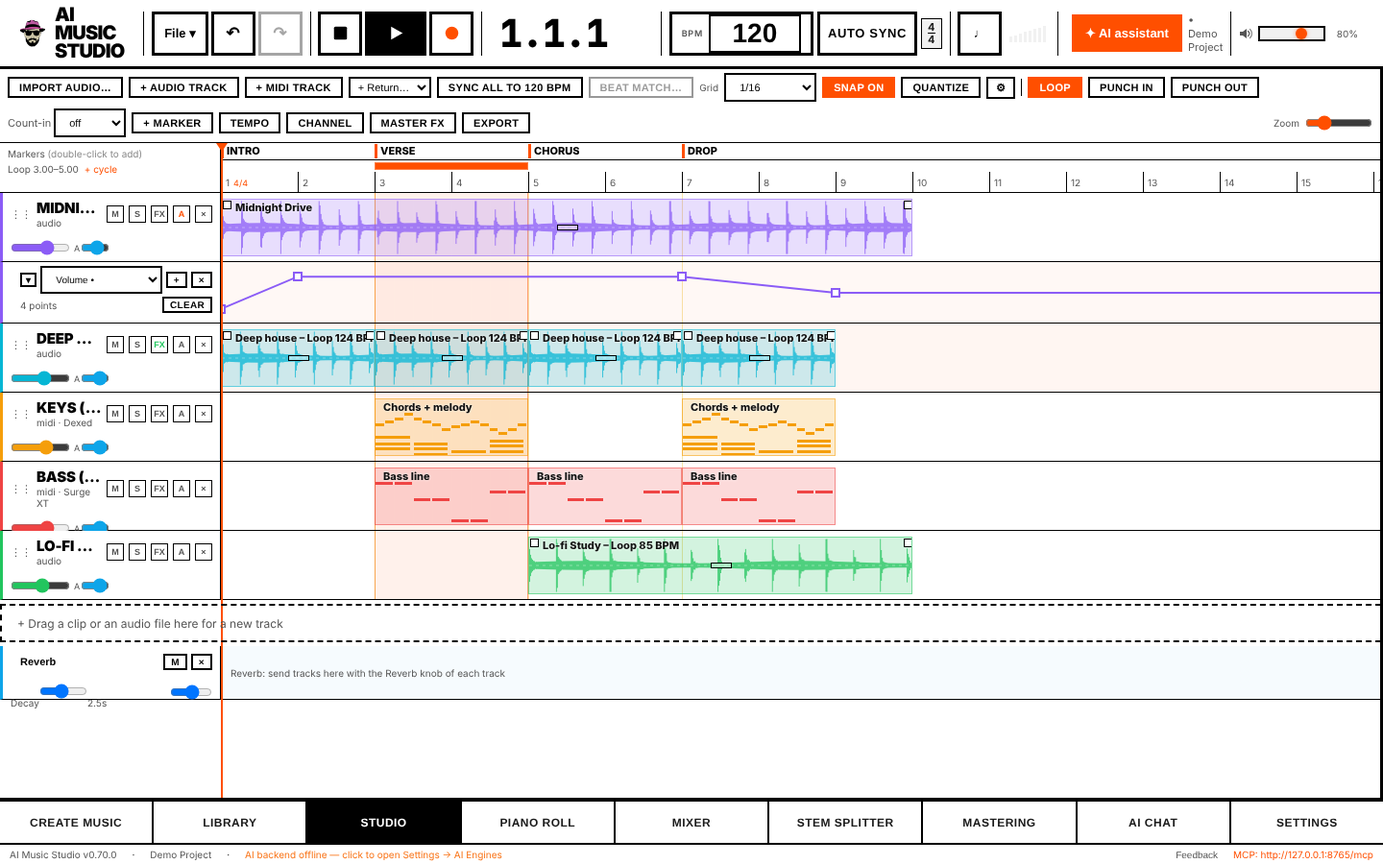
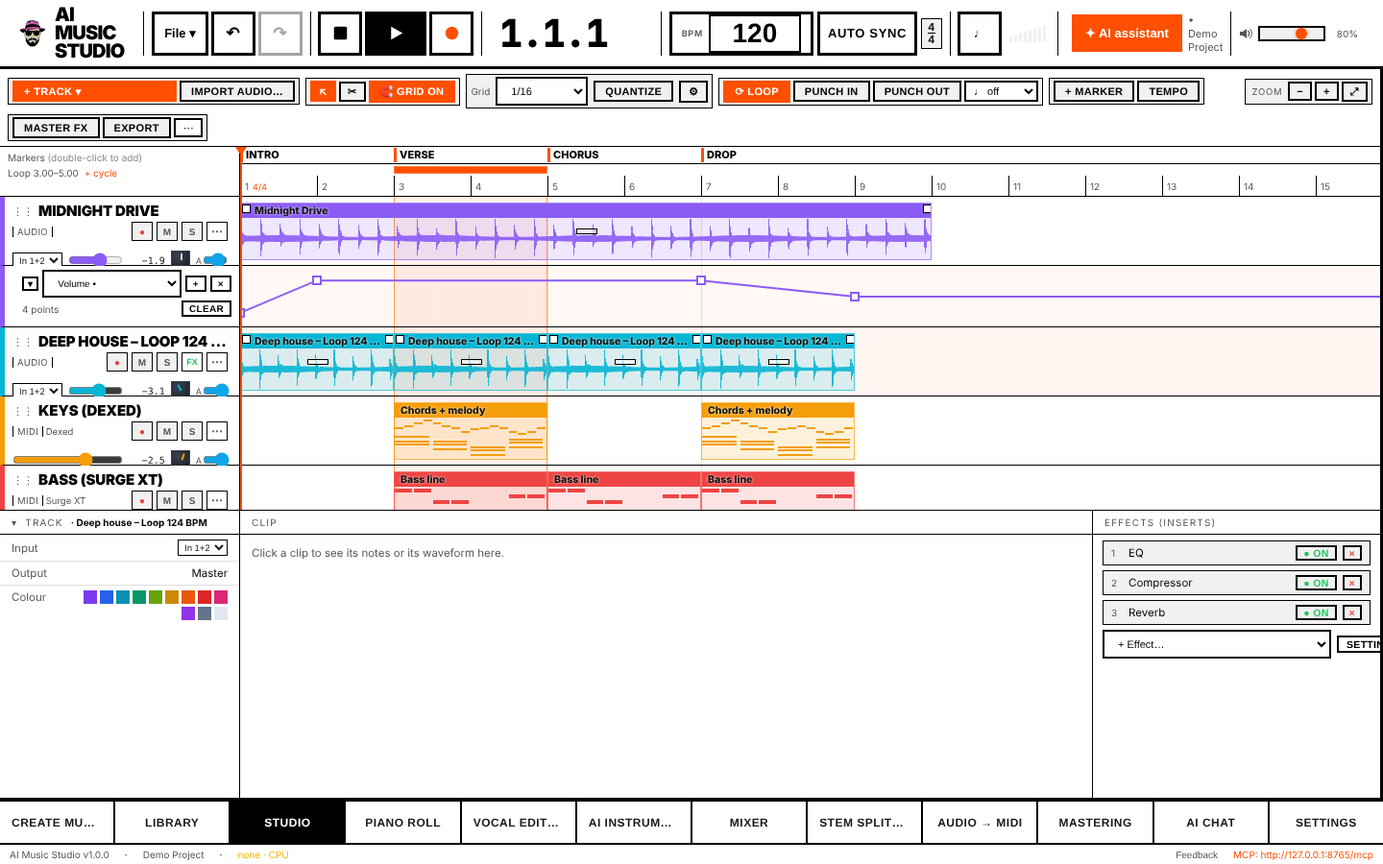
docs: new screenshots, README and wiki for everything in the app; mixer: '1 suggestion'
Claude-Session: https://claude.ai/code/session_013zCgTr6dt9d3xsck6W1V2X

diff --git a/apps/desktop/src/renderer/src/components/mixer/Mixer.tsx b/apps/desktop/src/renderer/src/components/mixer/Mixer.tsx
@@ -404,7 +404,7 @@ export function Mixer(): React.ReactElement {
         <span style={{ fontSize: 18, fontWeight: 800, color: C.text }}>{tr('Mixer')}</span>
         <span style={{ fontSize: 11, color: C.label, border: '1px solid #2a3340', borderRadius: 999, padding: '2px 9px' }}>{trf('{n} tracks · {r} returns', { n: shown.length, r: returns.length })}</span>
         <span style={{ flex: 1 }} />
-        {issues.length > 0 && <span style={{ fontSize: 11, color: '#fde68a', border: '1px solid #a16207', borderRadius: 999, padding: '2px 9px' }}>⚠ {trf('{n} suggestions', { n: issues.length })}</span>}
+        {issues.length > 0 && <span style={{ fontSize: 11, color: '#fde68a', border: '1px solid #a16207', borderRadius: 999, padding: '2px 9px' }}>⚠ {issues.length === 1 ? tr('1 suggestion') : trf('{n} suggestions', { n: issues.length })}</span>}
         <button disabled={!!busy} onClick={issues.length > 1 ? takeAll : () => void analyse()} style={{ border: 'none', borderRadius: 999, padding: '6px 14px', fontSize: 12, fontWeight: 700, cursor: 'pointer', background: 'linear-gradient(90deg, #7c3aed, #db2777)', color: '#fff', opacity: busy ? 0.6 : 1 }}>
           ✦ {issues.length > 1 ? tr('Balance the whole mix') : tr('Measure my mix')}
         </button>

diff --git a/README.md b/README.md
@@ -6,7 +6,7 @@
 
 **🎬 [Watch the 0.60 tour on YouTube (2 minutes)](https://youtu.be/FTNmsRxWuy4)**
 
-**Free, open-source AI music studio for Windows:** make songs, seamless loops and stems with AI on your own PC, and arrange them in a full studio (DAW) with mixer, piano roll and automation. No account, no subscription. The AI assistant works with Claude, ChatGPT, Grok or completely free and local with Ollama.
+**Free, open-source AI music studio for Windows:** make songs, seamless loops and stems with AI on your own PC, split songs into stems, turn audio into MIDI, sing your melodies with AI voices, play AI instruments, mix and master, and arrange it all in a full studio (DAW) with piano roll, mixer, automation and VST plugins. No account, no subscription. The AI assistant works with Claude, ChatGPT, Gemini, Grok or completely free and local with Ollama.
 
 ## Easy Windows installation
 
@@ -45,79 +45,97 @@ AI Music Studio is free and stays free, made in my spare time. If it saves you t
 - 0.97: album mastering with a professional album player; 0.96: 39 built-in singing voices with styles and rap.
 - Full history: [CHANGELOG.md](CHANGELOG.md).
 
-## Features
+## What is in the app
 
-### Studio (DAW): available now
+Everything below works today, on your own PC, without an account. The menu on the left of the app, from top to bottom:
 
-A full arrangement studio in the app, with the shortcuts of **Ableton Live 12** or **Cubase** (Settings → Shortcuts).
+| Menu | What you can do |
+|---|---|
+| **✨ Create Music** | Songs from a style description and lyrics (with vocals, instrumental or a cappella), seamless loops of 1–16 bars that start on beat 1, in *Simple*, *Studio* or *Loops* mode. Lyrics editor with section buttons, auto structure and AI lyrics; the built-in singers of the Vocal Editor can sing your song; three 10-second voice previews; LoRA styles (import, search on Hugging Face, train your own); a source or reference song by drag and drop; several takes with waveforms, seeds and a queue. Every take goes to the Studio, Mastering, the Stem Splitter or Audio → MIDI with one click. |
+| **🎵 Library** | Every song, loop, stem and sample with tempo, tags and its prompt; search by name, tag or BPM (`120-130`); favourites; your Ableton library and other sample folders; export as WAV 16/24/32 bit, AIFF, FLAC or MP3; *Start on beat 1*; to the Studio, Mastering, Stem Splitter or MIDI. |
+| **⊞ Studio** | The arrangement (DAW): audio and MIDI tracks, drag and drop from the Library or Explorer, loop range, markers, tempo and time-signature track, snap grid with a magnet, scissors tool, warp markers, AUTO SYNC of everything to the project tempo, multi-select, copy / paste / duplicate, clip fades and gain, volume / pan / plugin automation lanes, return tracks with sends, group tracks, track colours, undo / redo, save and open projects. Recording: arm tracks, count-in, punch in / out, loop recording with comping, audio input choice, MIDI keyboard recording. The **Piano Roll sits right under the tracks**; the effects of the selected track are rack modules with knobs at the right. VST3 / VST2 effects (64-bit and 32-bit) and instruments on tracks and the master, ASIO output. Shortcuts of Ableton Live 12 or Cubase. |
+| **🎹 Piano Roll** | Draw, select, move, quantize (strength, swing) and erase notes, velocity lane, note length, **keys on the left or a keyboard below with the notes coming down**, record from the screen keys or a MIDI keyboard, import and export MIDI files. |
+| **🎤 Vocal Editor** | Your MIDI melody sung with your lyrics: **39 built-in voices of 20 singers with names**, in the styles Pop, Rock, Ballad, Soul and Rap; hear every voice and every style first; the syllables sit right on the notes; DiffSinger voices for exact notes; the finished vocal lands on a new track with the style's effects. |
+| **🎻 AI Instruments** | A stage with six musicians: **Composer** (writes a MIDI song), **Drummer**, **Bass player** and **Guitarist** (a virtual band that follows your chords), **Orchestra** (13 AI-played instruments) and **AI soloist**. Preview before it goes into the song, *3 ideas*, *Add the whole band*, and *AI render* for a real-sounding recording. Sound packs with recorded instruments (Band, GeneralUser GS, MuseScore General, Salamander piano, VSCO-2 orchestra). |
+| **🎚 Mixer** | A card per track (name in the track colour, M / S, fader with LED meter, pan, sends, effects, output), the master and its loudness against a target (streaming −14, podcast −16, loud −9, broadcast −23 LUFS), returns, and the **mix assistant**: it measures every track and the whole mix and suggests levels, panning and low-end fixes, each with its reason and a *Do it* button, or *Balance the whole mix* in one click (Ctrl+Z takes it back). |
+| **✂ Stem Splitter** | Splits a song into vocals, drums, bass, piano, guitar and the rest (Demucs; fast vocals-plus-instrumental and 4-stem modes on AMD, Intel and NVIDIA graphics cards). The song as a waveform on top, **every stem in its own lane** with M, S, volume, *hear only this stem* and → MIDI / Studio / Mastering; remix export (karaoke without vocals, a version without drums); save to the Library or export every stem for any DAW. |
+| **♪ Audio → MIDI** | A whole song, or just its melody, bassline or drums, becomes editable MIDI: each part with the method that suits it (one-voice lines for vocals and bass, chords for piano and guitar, kick / snare / hi-hat for drums), on the bars and beats of the song, with its tempo, key and chords. A table shows every part with note preview, instrument and how sure the detection is; into the Studio with an optional chord track and chord markers. |
+| **◎ Mastering** | A full mastering workspace: an AI assistant that measures the song against the genre and suggests settings with reasons; EQ, dynamic EQ, compressor, multiband, saturation / exciter, stereo, true-peak limiter to a loudness target, master gain; cut, fade, normalise; LUFS / true peak / spectrum / goniometer before and after with same-loudness A/B; reference match; **album mastering** (several songs on one timeline, even loudness, transitions); export in 8 formats with metadata. |
+| **💬 AI Chat** | A music assistant for chords, lyrics and ideas that can also use the app (make a track, add notes, change the tempo). Claude, ChatGPT, Gemini, Grok, Ollama or a local server (LM Studio, KoboldCpp, llama.cpp). |
+| **⚙ Settings** | Language (English, German, French, Spanish, Italian, Portuguese, Russian, Chinese), VST plugins, AI keys, **AI Engines** (install the local models with one click), hardware rating of your PC, models folder and disk space, shortcuts, audio (devices, ASIO, sample rate, buffer, test tone, CPU load, sound packs), MIDI devices with ready mappings and MIDI learn, four looks, updates. |
 
-- **Arrangement:** audio and MIDI tracks, drag and drop from the Library or Explorer, multi-select, copy / cut / paste, duplicate (Ctrl+D lines up loops without a gap), split, consolidate, crossfades
-- **Timing:** loop range in the ruler, markers and cycle markers, tempo and time-signature track, snap to grid, warp markers, AUTO SYNC of imported audio to the project tempo
-- **Recording:** count-in, punch in / out, loop recording into take lanes with comping
-- **VST plugins:** your VST3 and VST2 effects (64-bit and 32-bit) on every track, with their own windows; Settings → Plugins finds them
-- **Mixing:** mixer with faders, pan, mute, solo and live level meters, volume and pan automation lanes, reverb and delay return tracks with sends, group tracks, a channel tab per track
-- **Piano Roll:** draw, move and quantize MIDI notes
-- **Right in the Studio:** split a clip into stems from the right-click menu, quick export of the song
-- **Projects:** save and open, undo / redo
+**Also:** the top bar with File menu, transport, BPM, AUTO SYNC, metronome and time signature; a **setup assistant** that installs the AI engines for you on the first start; automatic updates; and an **MCP server** so AI agents can use the whole app (`http://127.0.0.1:38765/mcp`). It runs on the CPU and is faster on NVIDIA (CUDA) and AMD / Intel graphics cards (DirectML), also on 8 GB VRAM / 12 GB RAM PCs. [Every menu and function in detail: the wiki.](https://github.com/pierrecinema/ai-music-studio/wiki)
 
-### AI: available now
+### Technology
 
-| Feature | What it does | Technology |
-|---|---|---|
-| **Create music** | Songs from a style description and lyrics; vocals with ACE-Step, instrumentals with MusicGen; a cappella mode; every track starts on beat 1 | ACE-Step 1.5 / v1, MusicGen, DiffRhythm |
-| **Create loop** | Exactly 1–16 bars, starts on beat 1, repeats seamlessly, named with tempo and bars | own loop cutter on the beat grid |
-| **Stem Splitter** | Vocals, drums, bass, piano, guitar and more; a stem mixer (solo, mute, volume) with remix export, e.g. karaoke without vocals; saved to the Library and exported for any DAW | Meta Demucs (htdemucs_ft) |
-| **Audio → MIDI** | The melody of a stem as notes on a MIDI track, opened in the Piano Roll | Spotify basic-pitch |
-| **Mastering** | Full mastering workspace: an AI assistant that measures the song and suggests settings per genre; EQ, dynamic EQ, compressor, multiband, saturation / exciter, stereo, true-peak limiter to a loudness target, master gain fader; cut, fade and normalise; LUFS / true peak / spectrum / goniometer before and after; export in 8 formats with metadata; reference match | own DSP (Web Audio worklets), Matchering, ffmpeg |
-| **Library** | Songs, loops, stems and samples with tempo and tags; search by name, tag or BPM; export as WAV, AIFF, FLAC or MP3 | |
-| **AI Chat** | Music assistant for chords, lyrics and ideas | Claude, ChatGPT, Grok, or free and local with Ollama |
-| **Hardware** | Runs on the CPU; faster on NVIDIA (CUDA) and AMD / Intel graphics cards (DirectML) | PyTorch |
-| **Languages** | The whole app in English, German, French, Spanish, Italian, Portuguese, Russian and Chinese | |
+| Part | Technology |
+|---|---|
+| Songs, loops | ACE-Step 1.5 / v1, MusicGen, DiffRhythm; own loop cutter on the beat grid |
+| Stems | Meta Demucs (htdemucs_ft), fast vocal separation on the graphics card |
+| Audio → MIDI | Spotify basic-pitch, NMF drum transcription, own tempo, key and chord detection |
+| Singing | SoulX-Singer and VocalSet voices, DiffSinger, ACE-Step 1.5 for rap |
+| AI instruments | MIDI-DDSP, ACE-Step cover, recorded sound packs |
+| Mastering | own DSP (Web Audio worklets), Matchering, ffmpeg |
+| Plugins | JUCE plugin host for VST3 / VST2 |
 
 ### Coming soon
 
+These menu items are dimmed in the app and open a *Coming soon* page.
+
 | Feature | What it will do |
 |---|---|
-| **Instrument plugins, plugins on the master and in Mastering** | VST effects work in the Studio tracks since 0.50; instruments and the master follow |
-| **Vocal Editor** | AI singing from notes and lyrics, voice cloning |
-| **AI Instruments** | AI-played instruments for your MIDI tracks |
 | **Karaoke Export** | Word timing, .lrc files and lyric videos |
 | **Video Composer** | Music that follows the cuts of your video |
 | **Cloud Rendering (Pro)** | Optional: render on fast NVIDIA cards in the cloud. Everything above stays free and local. |
 
 ## Screenshots
 
-*Shown with demo content: example songs, a demo project and a PC without AI engines installed yet. All pages below the first picture are shown in the Hardware rack look.*
+*Shown with demo content: example songs and a demo project, in the Hardware rack look (the first picture in the standard Dark look).*
 
-<img src="docs/screenshots/layout-dark.png" alt="Studio" width="100%">
-**Studio** – arrangement with loop and markers, volume automation, tempo-synced loops pasted one after the other, MIDI tracks with the free instruments Dexed and Surge XT and a reverb return track.
+<img src="docs/screenshots/studio-pianoroll.png" alt="Studio with the Piano Roll under the tracks" width="100%">
+**Studio** – tracks with waveforms and MIDI clips, loop and markers, volume automation, the Piano Roll right under the tracks, the track's instrument and effects at the right.
 
 <img src="docs/screenshots/studio.png" alt="Studio in the Hardware rack look" width="100%">
-**The same Studio in the Hardware rack look** – the selected track's effects (EQ, compressor, reverb) as rack modules with knobs at the right.
-
-<img src="docs/screenshots/studio-tools.png" alt="Studio tools" width="100%">
-**Studio tools** – pointer, scissors (click to cut, drag to cut out a range over several tracks) and the grid magnet; zoom up to 16× with a magnetic grid for lining up beats.
-
-<img src="docs/screenshots/vocal-editor.png" alt="Vocal Editor" width="100%">
-**Vocal Editor** – 39 built-in voices with names sing your MIDI melody and lyrics; click a voice to hear it, hear it in every style (Pop, Rock, Ballad, Soul) and pick the style, whose way of singing and effects go onto the new vocal track. Rap by the AI singer.
-
-<img src="docs/screenshots/album-mastering.png" alt="Album mastering" width="100%">
-**Album mastering** – the songs of an album on one timeline with their waveforms: measure, even out loudness and tone, hear the transitions and export everything at once.
-
-<img src="docs/screenshots/setup-assistant.png" alt="Setup assistant" width="100%">
-**Setup assistant** – on the first start: checks the computer, offers *Recommended*, *Everything* or *Studio only*, and installs with one click (it sets up its own Python if needed).
+**Studio, effects** – the selected track's effects (EQ, compressor, reverb) as rack modules with knobs.
 
 <img src="docs/screenshots/create-studio.png" alt="Create music" width="100%">
-**Create music** – describe the style, write lyrics, pick a model and make a song or a seamless loop (1–16 bars). Simple and Studio mode.
+**Create music** – describe the style, write lyrics, pick a model and make a song or a seamless loop (1–16 bars). Simple, Studio and Loops mode.
 
 <img src="docs/screenshots/library.png" alt="Library" width="100%">
-**Library** – every created song and loop is kept with its tempo; loops are named like "Deep house – Loop 124 BPM 4 bars".
+**Library** – every created song and loop is kept with its tempo, tags and prompt; stems and sample folders have their own tabs.
+
+<img src="docs/screenshots/piano-roll.png" alt="Piano Roll" width="100%">
+**Piano Roll** – draw, move and quantize notes; the keys on the left or a keyboard below with the notes coming down.
+
+<img src="docs/screenshots/vocal-editor.png" alt="Vocal Editor" width="100%">
+**Vocal Editor** – 39 built-in voices with names sing your MIDI melody and lyrics; hear a voice and every style (Pop, Rock, Ballad, Soul, Rap) before you sing.
+
+<img src="docs/screenshots/instruments.png" alt="AI Instruments" width="100%">
+**AI Instruments** – a stage with a composer, drummer, bass player, guitarist, orchestra and AI soloist; click a musician, hear it, get three ideas, add it to the song or render it as a real recording.
+
+<img src="docs/screenshots/mixer.png" alt="Mixer" width="100%">
+**Mixer** – a card per track, the master with its loudness against a target, returns and the mix assistant with one-click suggestions.
+
+<img src="docs/screenshots/stem-splitter.png" alt="Stem Splitter" width="100%">
+**Stem Splitter** – the song on top, every stem in its own lane with M, S, volume, hear-only and → MIDI / Studio / Mastering.
+
+<img src="docs/screenshots/audio-to-midi.png" alt="Audio to MIDI" width="100%">
+**Audio → MIDI** – say what should become MIDI (whole song, melody, bassline, drums); every part with note preview, instrument and how sure the detection is.
 
 <img src="docs/screenshots/mastering.png" alt="Mastering" width="100%">
 **Mastering** – waveform before and after with a marked region to cut, fade or change the volume; meters before and after (loudness, true peak, spectrum, goniometer), same-loudness A/B and export in every format.
 
 <img src="docs/screenshots/mastering-assistant.png" alt="Mastering assistant" width="100%">
 **Mastering assistant** – measures tone balance per octave, dynamics, stereo and loudness against the genre and suggests settings, each with its reason; apply all with one click and compare.
+
+<img src="docs/screenshots/album-mastering.png" alt="Album mastering" width="100%">
+**Album mastering** – the songs of an album on one timeline: measure, even out loudness and tone, hear the transitions and export everything at once.
+
+<img src="docs/screenshots/setup-assistant.png" alt="Setup assistant" width="100%">
+**Setup assistant** – on the first start: checks the computer, offers *Recommended*, *Everything* or *Studio only*, and installs with one click (it sets up its own Python if needed).
+
+<img src="docs/screenshots/ai-chat.png" alt="AI Chat" width="100%">
+**AI Chat** – Claude, ChatGPT, Gemini, Grok or a local model as a music assistant that can also make songs and tracks.
 
 ### Looks
 
@@ -137,17 +155,15 @@ A full arrangement studio in the app, with the shortcuts of **Ableton Live 12** 
 <img src="docs/screenshots/layout-rack.png" alt="Look: Hardware rack" width="100%">
 **Hardware rack** – grey device fronts with screws, a wide green LCD for position and tempo, the menu at the side as rack keys, the selected track's effects as rack modules with knobs at the right.
 
+### Settings
+
 | | |
 |---|---|
-| <img src="docs/screenshots/piano-roll.png" alt="Piano Roll" width="100%"><br>**Piano Roll** – draw, move and quantize MIDI notes | <img src="docs/screenshots/mixer.png" alt="Mixer" width="100%"><br>**Mixer** – faders, pan, mute/solo, level meters, master |
-| <img src="docs/screenshots/instruments.png" alt="AI Instruments" width="100%"><br>**AI Instruments** – song generator, band and orchestral AI instruments for MIDI tracks (click one to hear it) | <img src="docs/screenshots/mixer.png" alt="Mixer" width="100%"><br>**Mixer** – SSL-style channel strips |
-| <img src="docs/screenshots/stem-splitter.png" alt="Stem Splitter" width="100%"><br>**Stem Splitter** – vocals, drums, bass and more with Demucs | <img src="docs/screenshots/mastering-chain.png" alt="Mastering chain" width="100%"><br>**Mastering chain** – EQ, compressor, multiband, stereo, limiter with loudness target, master gain fader |
-| <img src="docs/screenshots/karaoke.png" alt="Karaoke Export" width="100%"><br>**Karaoke Export** – word timing, .lrc and lyric videos (coming soon) | <img src="docs/screenshots/video-composer.png" alt="Video Composer" width="100%"><br>**Video Composer** – music that follows the cuts of a video (coming soon) |
-| <img src="docs/screenshots/ai-chat.png" alt="AI Chat" width="100%"><br>**AI Chat** – Claude, ChatGPT, Gemini, Grok or a local model as a music assistant that can also make songs | <img src="docs/screenshots/settings-ai-engines.png" alt="Settings → AI Engines" width="100%"><br>**Settings → AI Engines** – install the local AI models with one click |
-| <img src="docs/screenshots/settings-hardware.png" alt="Settings → Hardware" width="100%"><br>**Settings → Hardware** – what this PC can run, and how fast | <img src="docs/screenshots/settings-models.png" alt="Settings → Models" width="100%"><br>**Settings → Models** – downloaded models, sizes and the models folder |
-| <img src="docs/screenshots/settings-shortcuts.png" alt="Settings → Shortcuts" width="100%"><br>**Settings → Shortcuts** – Ableton Live 12 or Cubase key layout | <img src="docs/screenshots/settings-ai.png" alt="Settings → AI" width="100%"><br>**Settings → AI** – Claude, ChatGPT, Gemini, Grok, Ollama or a local server for the AI chat |
-| <img src="docs/screenshots/settings-general.png" alt="Settings → General" width="100%"><br>**Settings → General** – language (VST plugins: Settings → Plugins) | <img src="docs/screenshots/settings-audio.png" alt="Settings → Audio" width="100%"><br>**Settings → Audio** – export sample rate (44.1 kHz for platforms) and buffer size |
-| <img src="docs/screenshots/settings-appearance.png" alt="Settings → Appearance" width="100%"><br>**Settings → Appearance** – Dark, Light, Swiss or Hardware rack | <img src="docs/screenshots/settings-updates.png" alt="Settings → Updates" width="100%"><br>**Settings → Updates** – automatic updates from GitHub releases |
+| <img src="docs/screenshots/settings-ai-engines.png" alt="Settings → AI Engines" width="100%"><br>**AI Engines** – install the local AI models with one click | <img src="docs/screenshots/settings-hardware.png" alt="Settings → Hardware" width="100%"><br>**Hardware** – what this PC can run, and how fast |
+| <img src="docs/screenshots/settings-audio.png" alt="Settings → Audio" width="100%"><br>**Audio** – devices, export sample rate, buffer size and sound packs | <img src="docs/screenshots/settings-plugins.png" alt="Settings → Plugins" width="100%"><br>**Plugins** – your VST3 and VST2 plugins, found automatically |
+| <img src="docs/screenshots/settings-models.png" alt="Settings → Models" width="100%"><br>**Models** – downloaded models, sizes and the models folder | <img src="docs/screenshots/settings-ai.png" alt="Settings → AI" width="100%"><br>**AI** – Claude, ChatGPT, Gemini, Grok, Ollama or a local server for the AI chat |
+| <img src="docs/screenshots/settings-shortcuts.png" alt="Settings → Shortcuts" width="100%"><br>**Shortcuts** – Ableton Live 12 or Cubase key layout | <img src="docs/screenshots/settings-general.png" alt="Settings → General" width="100%"><br>**General** – language |
+| <img src="docs/screenshots/settings-appearance.png" alt="Settings → Appearance" width="100%"><br>**Appearance** – Dark, Light, Swiss or Hardware rack | <img src="docs/screenshots/settings-updates.png" alt="Settings → Updates" width="100%"><br>**Updates** – automatic updates from GitHub releases |
 
 **Found a problem?** ([guide, German](docs/TESTING.md)) Reports are very welcome, especially from PCs with **NVIDIA cards**: open *Feedback → Record a detailed log*, reproduce the problem, then attach the saved log to a GitHub issue. Nothing is sent automatically.
 

diff --git a/docs/wiki/Home.md b/docs/wiki/Home.md
@@ -1,18 +1,21 @@
 # AI Music Studio Wiki
 
-**Free, open-source AI music studio and DAW for Windows.** Make songs, seamless loops and stems with AI on your own PC, and arrange them in a full studio with mixer, piano roll and automation. No account, no subscription.
+**Free, open-source AI music studio and DAW for Windows.** Make songs, seamless loops and stems with AI on your own PC, split songs into stems, turn audio into MIDI, sing your melodies with AI voices, play AI instruments, mix and master, and arrange it all in a full studio with piano roll, mixer, automation and VST plugins. No account, no subscription.
 
-🎬 [2-minute tour on YouTube](https://youtu.be/FTNmsRxWuy4) · ⬇ [Download the latest version](https://github.com/pierrecinema/ai-music-studio/releases/latest) · 🐞 [Report a problem](https://github.com/pierrecinema/ai-music-studio/issues)
+🎬 [Tour on YouTube](https://youtu.be/FTNmsRxWuy4) · ⬇ [Download the latest version](https://github.com/pierrecinema/ai-music-studio/releases/latest) · 🐞 [Report a problem](https://github.com/pierrecinema/ai-music-studio/issues)
 
-## What's new (0.50)
+![The Studio in the Hardware rack look](https://raw.githubusercontent.com/pierrecinema/ai-music-studio/main/docs/screenshots/studio-pianoroll.png)
 
-**VST plugins:** your own VST3 and VST2 effects in the [[Studio]] ([[Settings]] → Plugins finds them).
+## What is in version 1.0
 
-## Earlier (0.40)
+- **Make music:** songs with vocals, instrumentals, a cappella and seamless 1–16 bar loops from a style and lyrics ([[Create Music]]); LoRA styles; your own library ([[Library]]).
+- **Arrange:** a full DAW with audio and MIDI tracks, loop, markers, tempo track, warp, recording with comping, automation, returns and groups, VST3 / VST2 plugins and ASIO ([[Studio]], [[Piano Roll]], [[Mixer]]).
+- **Sing and play:** 39 built-in AI voices that sing your melody and lyrics ([[Vocal Editor]]); a virtual band, an AI orchestra and an AI soloist ([[AI Instruments]]).
+- **Take songs apart:** every stem in its own lane ([[Stem Splitter]]); a whole song, melody, bass or drums into MIDI with tempo, key and chords ([[Audio to MIDI]]).
+- **Mix and master:** a mixer with a mix assistant, a full mastering workspace with an assistant, and album mastering ([[Mixer]], [[Mastering]]).
+- **Ask and automate:** an AI chat that can use the app ([[AI Chat]]) and an MCP server for AI agents ([[MCP]]).
+- **Easy to run:** a setup assistant installs the AI engines, automatic updates, eight languages, four looks, Ableton Live 12 or Cubase shortcuts ([[Installation and Setup]], [[Settings]]).
 
-The whole app is now available in **German, French, Spanish, Italian, Portuguese and Chinese** ([[Settings]] →
-General → Language), closing the app asks whether to save unsaved changes, and the [[Library]] uses the full width.
-Earlier: a full [[Mastering]] workspace with an assistant, editing and a master gain fader.
 All changes: [release notes](https://github.com/pierrecinema/ai-music-studio/releases).
 
 ## Start here
@@ -27,22 +30,21 @@ The menu on the left of the app, from top to bottom:
 
 | Menu | What it is for |
 |---|---|
-| ✨ [[Create Music]] | Songs from a style and lyrics, instrumentals, seamless loops (1–16 bars), LoRA styles |
+| ✨ [[Create Music]] | Songs from a style and lyrics, instrumentals, a cappella, seamless loops (1–16 bars), LoRA styles |
 | 🎵 [[Library]] | Your songs, loops, stems and sample folders: play, search, tag, export, add to the Studio |
-| ⊞ [[Studio]] | The arrangement (DAW): audio and MIDI tracks, clips, loop, markers, tempo, recording, automation |
-| 🎹 [[Piano Roll]] | Draw, select, move and quantize MIDI notes |
-| 🎤 [[Vocal Editor]] | Your melody sung with your lyrics: DiffSinger voices (every note exact) or the AI singer |
-| 🎤 Vocal Editor | [[Coming Soon]] |
-| 🎻 AI Instruments | [[AI Instruments]] |
-| 🎚 [[Mixer]] | Faders, pan, mute, solo, level meters, returns and groups |
-| ✂ [[Stem Splitter]] | Vocals, drums, bass and more; stem mixer, karaoke remix |
-| ♪ [[Audio to MIDI]] | A whole song into MIDI tracks: every instrument, drums too, on the bars, with tempo, key and chords |
-| ◎ [[Mastering]] | Master a song: assistant with suggestions per genre, EQ, dynamic EQ, compressor, multiband, saturation, stereo, limiter to a loudness target, master gain fader, cutting and fades, every meter, export in all formats |
+| ⊞ [[Studio]] | The arrangement (DAW): audio and MIDI tracks, clips, loop, markers, tempo, recording, automation, plugins |
+| 🎹 [[Piano Roll]] | Draw, select, move and quantize MIDI notes; keys left or below; record |
+| 🎤 [[Vocal Editor]] | Your melody sung with your lyrics: 39 built-in voices in five styles, or DiffSinger voices (every note exact) |
+| 🎻 [[AI Instruments]] | A stage with composer, drummer, bass player, guitarist, orchestra and AI soloist; sound packs with recorded instruments |
+| 🎚 [[Mixer]] | A card per track: faders, pan, mute, solo, level meters, sends, returns, master loudness and the mix assistant |
+| ✂ [[Stem Splitter]] | Vocals, drums, bass and more, each in its own lane; remix and karaoke export |
+| ♪ [[Audio to MIDI]] | A whole song, melody, bassline or drums into MIDI tracks, with tempo, key and chords |
+| ◎ [[Mastering]] | Master a song or an album: assistant with suggestions per genre, EQ, dynamic EQ, compressor, multiband, saturation, stereo, limiter to a loudness target, cutting and fades, every meter, export in all formats |
 | 🎙 Karaoke Export | [[Coming Soon]] |
 | 🎬 Video Composer | [[Coming Soon]] |
-| 💬 [[AI Chat]] | Music assistant: Claude, ChatGPT, Grok or free and local with Ollama |
+| 💬 [[AI Chat]] | Music assistant that can use the app: Claude, ChatGPT, Gemini, Grok or free and local with Ollama |
 | ☁ Cloud Rendering (Pro) | [[Coming Soon]] (optional, everything else stays free and local) |
-| ⚙ [[Settings]] | Language, AI keys, AI engines, hardware, models, shortcuts, audio, theme, updates, about |
+| ⚙ [[Settings]] | Language, AI keys, AI engines, hardware, models, shortcuts, audio, MIDI, looks, updates, about |
 
 Also: the [[Top Bar]] (File menu, transport, BPM, AUTO SYNC, metronome), [[Keyboard Shortcuts]] (Ableton Live 12 or Cubase layout), [[Feedback and Troubleshooting]] and [[MCP]] (let AI agents use the app).
 

diff --git a/docs/wiki/Coming-Soon.md b/docs/wiki/Coming-Soon.md
@@ -1,13 +1,11 @@
 # Coming Soon
 
-These menu items are dimmed and open a *Coming soon* page. They are in development and will come with a later update.
+These menu items are dimmed and open a *Coming soon* page. They are still being built and will come with a later update; the app updates itself.
 
 | Menu | What it will do |
 |---|---|
-| 🎤 **Vocal Editor** (0.90) | AI singing from notes and lyrics: short vocals and one-shots first, then whole lines from a MIDI track |
 | 🎙 **Karaoke Export** | word timing, `.lrc` files and lyric videos |
 | 🎬 **Video Composer** | music that follows the cuts of your video |
 | ☁ **Cloud Rendering (Pro)** | optional: render on fast NVIDIA cards in the cloud. Everything else stays free and local |
-| **More VST plugins** | effects already work in the [[Studio]] tracks; plugins on the master and in [[Mastering]], and instrument plugins on MIDI tracks, come next |
 
-Ideas and wishes: [GitHub issues](https://github.com/pierrecinema/ai-music-studio/issues).
+Everything else in the menu works today: see [[Home]]. Ideas and wishes: [GitHub issues](https://github.com/pierrecinema/ai-music-studio/issues).

diff --git a/docs/wiki/Keyboard-Shortcuts.md b/docs/wiki/Keyboard-Shortcuts.md
@@ -1,5 +1,8 @@
 # Keyboard Shortcuts
 
+![Settings, Shortcuts](https://raw.githubusercontent.com/pierrecinema/ai-music-studio/main/docs/screenshots/settings-shortcuts.png)
+
+
 Choose the layout in [[Settings]] → Shortcuts: **Ableton Live 12** or **Cubase**. Shortcuts do not act while you type in a text field (function keys excepted). In the [[Piano Roll]], Ctrl+A selects all notes; elsewhere in the [[Studio]] it selects all clips.
 
 **Your own keys:** the column **Yours** in Settings → Shortcuts. Press **+ Key** in the row of an action, then the keys. Only keys that are not used yet (by the chosen layout or your other keys) are accepted. A key that is taken is refused with the action that uses it. Your keys work in addition to the layout; **×** removes one, **Esc** cancels.

diff --git a/docs/wiki/AI-Chat.md b/docs/wiki/AI-Chat.md
@@ -1,5 +1,8 @@
 # AI Chat 💬
 
+![AI Chat](https://raw.githubusercontent.com/pierrecinema/ai-music-studio/main/docs/screenshots/ai-chat.png)
+
+
 A music assistant for chords, lyrics, song structure, mixing tips and ideas, **that can use the app**: ask it to make a song ("make me an afro house track with female vocals") and it starts the music AI itself with the model chosen in Create music; the progress shows in the chat, and the finished song can go to the Studio with one click (it is in the Library too). It can also check a job, list LoRAs, split stems, master a track and suggest chords. Choose the provider in [[Settings]] → AI:
 
 | Provider | Cost | Setup |

diff --git a/docs/wiki/Mastering.md b/docs/wiki/Mastering.md
@@ -84,6 +84,9 @@ own chain under a name.
 
 ## Album
 
+![Album mastering: the songs on one timeline](https://raw.githubusercontent.com/pierrecinema/ai-music-studio/main/docs/screenshots/album-mastering.png)
+
+
 Switch the page from *One song* to **💿 Album** to master an album or EP as a whole.
 
 1. **Drag audio files** from the Explorer onto the album view, or **+ Add songs…** (or **+ All open songs**), and put them in order by dragging a song (⋮⋮) or with ▲ ▼; × takes a song off the album. A click on a name opens that song on its own page (its chain, editing, meters).

diff --git a/docs/wiki/Mixer.md b/docs/wiki/Mixer.md
@@ -1,5 +1,8 @@
 # Mixer 🎚
 
+![Mixer with the mix assistant](https://raw.githubusercontent.com/pierrecinema/ai-music-studio/main/docs/screenshots/mixer.png)
+
+
 A full page since 0.99.13: a **card for every track**, the **master**, and on the right the **loudness**, the **mix assistant** and the **returns**. With many tracks the cards scroll sideways (scroll bar at the bottom, or the mouse wheel over the cards); the master stays next to them. Changes are heard at once while playing.
 
 ## A track card

diff --git a/docs/wiki/Studio.md b/docs/wiki/Studio.md
@@ -1,5 +1,10 @@
 # Studio ⊞
 
+![Studio with the Piano Roll under the tracks](https://raw.githubusercontent.com/pierrecinema/ai-music-studio/main/docs/screenshots/studio-pianoroll.png)
+
+![The selected track's effects as rack modules](https://raw.githubusercontent.com/pierrecinema/ai-music-studio/main/docs/screenshots/studio.png)
+
+
 The arrangement view (DAW), with the shortcuts of Ableton Live 12 or Cubase ([[Keyboard Shortcuts]]).
 
 ## Toolbar

diff --git a/docs/wiki/Create-Music.md b/docs/wiki/Create-Music.md
@@ -1,5 +1,8 @@
 # Create Music ✨
 
+![Create Music](https://raw.githubusercontent.com/pierrecinema/ai-music-studio/main/docs/screenshots/create-studio.png)
+
+
 Make songs and loops with AI on your own PC. Three modes at the top right: **Simple** (style, lyrics, Create), **Studio** (all settings) and **⟳ Loops** (loops of exactly 1 to 16 bars, with all settings of the Studio mode). Every result is saved to the [[Library]] at once.
 
 ## The page

diff --git a/docs/wiki/Settings.md b/docs/wiki/Settings.md
@@ -1,5 +1,10 @@
 # Settings ⚙
 
+![Settings, AI Engines](https://raw.githubusercontent.com/pierrecinema/ai-music-studio/main/docs/screenshots/settings-ai-engines.png)
+
+![Settings, Audio](https://raw.githubusercontent.com/pierrecinema/ai-music-studio/main/docs/screenshots/settings-audio.png)
+
+
 Open with the gear at the bottom of the left menu (Ableton layout: Ctrl+,). Close with ✕, **Esc** or the gear again.
 
 | Tab | What is there |

diff --git a/docs/wiki/Stem-Splitter.md b/docs/wiki/Stem-Splitter.md
@@ -1,5 +1,8 @@
 # Stem Splitter ✂
 
+![Stem Splitter with a lane per stem](https://raw.githubusercontent.com/pierrecinema/ai-music-studio/main/docs/screenshots/stem-splitter.png)
+
+
 Split a song into its parts (stems): vocals, drums, bass, piano, guitar, other.
 
 Drop a file on the page or choose one, or send a song here with the **Stem Splitter** button in [[Create Music]] (results) or the [[Library]].
